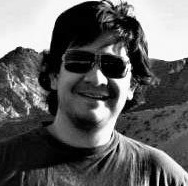
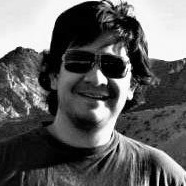
ya ta

diff --git a/index.html b/index.html
@@ -4,12 +4,10 @@
 	<meta charset="UTF-8">
 	<meta http-equiv="X-UA-Compatible" content="IE=edge">
 
-<meta property="og:url"                content="http://brakdag.github.io" />
 <meta property="og:type"               content="image/jpeg" />
-<meta property="og:title"              content="Gustavo David Ferreyra" />
-<meta property="og:description"        content="Programmer" />
 <meta property="og:image"              content="http://brakdag.github.io/programmer.jpg" />
-
+<meta property="og:image:width"        content="186"/> 
+<meta property="og:image:heigth"        content="186"/>
 
     <meta name="viewport" content="width=device-width, initial-scale=1">
 	<title>Pagina Web de Gustavo</title>
